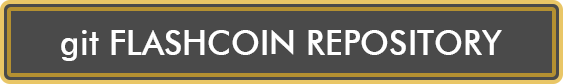
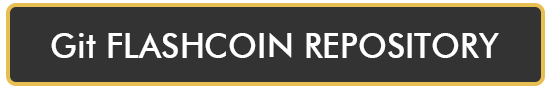
Buttons replacement and Background color-code changed

diff --git a/index.html b/index.html
@@ -82,13 +82,13 @@
 			}
 			function hover(element) {
 				var img = $(element).attr('data-imgname');
-				img = img+'Hover.png?123';
+				img = img+'Hover.png?ver=1.1';
 			  element.setAttribute('src', 'images/_newsite/web_img/'+img);
 			}
 
 			function unhover(element) {
 				var img = $(element).attr('data-imgname');
-				img = img+'.png?123';
+				img = img+'.png?ver=1.1';
 			  element.setAttribute('src', 'images/_newsite/web_img/'+img);
 			}
 
@@ -117,7 +117,7 @@
 						<div class="row clearfix webmainpart">
 							<div class="col-lg-12 text-center">
 								<div class="text-center main-section-image">
-									<img class="" src="images/_newsite/web_img/WebsiteActualLogo.png" />
+									<img class="" src="images/_newsite/web_img/WebsiteActualLogo.png?ver=1.1" />
 								</div>
 							</div>
 						</div>
@@ -129,16 +129,16 @@
 										</h3>
 								</div>
 								<div class="whitepaper bottommargin-sm bottommargin-child">
-									<a href="https://t.me/joinchat/C5go9ExsGGNeVvForEgb6w" target="_blank"><img src="images/_newsite/web_img/TelegramButton.png?123" onmouseover="hover(this);" onmouseout="unhover(this);" data-imgname="TelegramButton" ></a>
-									<a href="https://discord.gg/2nFmMqA" target="_blank"><img src="images/_newsite/web_img/DiscordButton.png?123" onmouseover="hover(this);" onmouseout="unhover(this);" data-imgname="DiscordButton" ></a>
+									<a href="https://t.me/joinchat/C5go9ExsGGNeVvForEgb6w" target="_blank"><img src="images/_newsite/web_img/TelegramButton.png?ver=1.1" onmouseover="hover(this);" onmouseout="unhover(this);" data-imgname="TelegramButton" ></a>
+									<a href="https://discord.gg/2nFmMqA" target="_blank"><img src="images/_newsite/web_img/DiscordButton.png?ver=1.1" onmouseover="hover(this);" onmouseout="unhover(this);" data-imgname="DiscordButton" ></a>
 								</div>
 
 							</div>
 						</div>
 						<div class="row clearfix">
 							<div class="col-lg-12 text-center bottom-section" style="">
-								<a href="docs/FLASHWhitepaper.pdf?new" target="_blank" class="display-centrally WhitePaperButton"><img src="images/_newsite/web_img/WhitePaperButton.png?123" onmouseover="hover(this);" onmouseout="unhover(this);" data-imgname="WhitePaperButton" style="width:150px"></a>
-								<a class="LearnMoreButton" href="#" data-scrollto="#about"><img src="images/_newsite/web_img/LearnMoreButton.png?123" onmouseover="hover(this);" onmouseout="unhover(this);" data-imgname="LearnMoreButton" ></a>
+								<a href="docs/FLASHWhitepaper.pdf?new" target="_blank" class="display-centrally WhitePaperButton"><img src="images/_newsite/web_img/WhitePaperButton.png?ver=1.1" onmouseover="hover(this);" onmouseout="unhover(this);" data-imgname="WhitePaperButton" style="width:150px"></a>
+								<a class="LearnMoreButton" href="#" data-scrollto="#about"><img src="images/_newsite/web_img/LearnMoreButton.png?ver=1.1" onmouseover="hover(this);" onmouseout="unhover(this);" data-imgname="LearnMoreButton" ></a>
 							</div>
 						</div>
 					</div>
@@ -304,7 +304,7 @@
 								</div>
 								<div class="col-md-12">
 									<div class="promo promo-center">
-										<a href="our-team.html"><img src="images/_newsite/web_img/MoreButton.png" onmouseover="hover(this);" onmouseout="unhover(this);" data-imgname="MoreButton" style="width:13%;"></a>
+										<a href="our-team.html"><img src="images/_newsite/web_img/MoreButton.png?ver=1.1" onmouseover="hover(this);" onmouseout="unhover(this);" data-imgname="MoreButton" style="width:13%;"></a>
 									</div>
 								</div>
 							</div>
@@ -322,7 +322,7 @@
 						<div class="container clearfix">
 							<div class="row">
 								<div class="col-md-4">
-									<img src="images/circle.png" alt="">
+									<img src="images/circle.png?ver=1.1" alt="">
 								</div>
 								<div class="col-md-8">
 									<h2>Features</h2>
@@ -652,7 +652,7 @@
 								</ul>
 								<div class="col-md-12">
 									<div class="promo promo-center">
-										<a href="our-partners.html"><img src="images/_newsite/web_img/MoreButton.png" onmouseover="hover(this);" onmouseout="unhover(this);" data-imgname="MoreButton" style="width:11%;"></a>
+										<a href="our-partners.html"><img src="images/_newsite/web_img/MoreButton.png?ver=1.1" onmouseover="hover(this);" onmouseout="unhover(this);" data-imgname="MoreButton" style="width:11%;"></a>
 									</div>
 								</div>
 							</div>
@@ -696,11 +696,11 @@
 									<span>With the web wallet, you can use an email address or your public address for sending and receiving coins.<br /><br />
 										The web wallet supports most browsers and mobile devices. There's nothing to download or install for maximum convenience.<br/>
 									</span>
-									<a href="https://wallet.flashcoin.io/" target="_blank"><img src="images/_newsite/web_img/WebWalletButton.png" onmouseover="hover(this);" onmouseout="unhover(this);" data-imgname="WebWalletButton" style="width:70%; margin-top:20px;"></a>
+									<a href="https://wallet.flashcoin.io/" target="_blank"><img src="images/_newsite/web_img/WebWalletButton.png?ver=1.1" onmouseover="hover(this);" onmouseout="unhover(this);" data-imgname="WebWalletButton" style="width:70%; margin-top:20px;"></a>
 									<div class="fancy-title title-border">
 										<h2>Flash <span>Android</span> Wallet</h2>
 									</div>
-									<a href="https://play.google.com/store/apps/details?id=com.flash.wallet.android" target="_blank" class="button topmargin-sm play-store-btn"><img src="images/icons/playstor1.png"></a>
+									<a href="https://play.google.com/store/apps/details?id=com.flash.wallet.android" target="_blank" class="button topmargin-sm play-store-btn"><img src="images/icons/playstor1.png?ver=1.1"></a>
 								</div>
 								<div class="col-lg-8">
 									<div class="max-height col-lg-12">
@@ -711,7 +711,7 @@
 											<div class="col-md-3 col-sm-3">
 												<div class="feature-box fbox-center fbox-dark fbox-plain fbox-small nobottomborder">
 													<div class="fbox-icon">
-														<img src="images/icons/icon_microsoft.png" />
+														<img src="images/icons/icon_microsoft.png?ver=1.1" />
 													</div>
 													<h3>Windows</h3>
 													<a href="downloads/flashcoin-0.10.3.0-win64-setup.exe">64 Bit</a><br />
@@ -754,13 +754,13 @@
 										<div class="fancy-title title-border">
 											<h2>Flash <span>iOS</span> Wallet</h2>
 										</div>
-										<a href="https://itunes.apple.com/in/app/coinodes-flash-wallet/id1397010514" target="_blank" class="button topmargin-sm app-store-btn"><img style="height:45px" src="images/icons/app-store.png"></a>
+										<a href="https://itunes.apple.com/in/app/coinodes-flash-wallet/id1397010514" target="_blank" class="button topmargin-sm app-store-btn"><img style="height:45px" src="images/icons/app-store.png?ver=1.1"></a>
 									</div>
 									<div class="col-lg-6" style="display: inline-block;">
 										<div class="fancy-title title-border">
 											<h2>Flash <span>Paper</span> Wallet</h2>
 										</div>
-										<a href="https://paperwallet.flashcoin.io/" target="_blank" class="button topmargin-sm app-store-btn"><img src="images/_newsite/web_img/PaperWalletButton.png" onmouseover="hover(this);" onmouseout="unhover(this);" data-imgname="PaperWalletButton" style="width:80%;"></a>
+										<a href="https://paperwallet.flashcoin.io/" target="_blank" class="button topmargin-sm app-store-btn"><img src="images/_newsite/web_img/PaperWalletButton.png?ver=1.1" onmouseover="hover(this);" onmouseout="unhover(this);" data-imgname="PaperWalletButton" style="width:80%;"></a>
 									</div>
 								</div>
 							</div>
@@ -788,14 +788,14 @@
 								<h2>Download Whitepaper</h2>
 							</div>
 							<div class="center">
-								<a href="docs/FLASHWhitepaper.pdf" target="_blank"><img src="images/_newsite/web_img/EnglishButton.png" onmouseover="hover(this);" onmouseout="unhover(this);" data-imgname="EnglishButton" style="width:15%; margin-right:10px;"></a>
-								<a href="docs/FLASHWhitepaper-Espanol.pdf" target="_blank"><img src="images/_newsite/web_img/EspanolButton.png" onmouseover="hover(this);" onmouseout="unhover(this);" data-imgname="EspanolButton" style="width:15%; margin-left:10px;"></a>
+								<a href="docs/FLASHWhitepaper.pdf" target="_blank"><img src="images/_newsite/web_img/EnglishButton.png?ver=1.1" onmouseover="hover(this);" onmouseout="unhover(this);" data-imgname="EnglishButton" style="width:15%; margin-right:10px;"></a>
+								<a href="docs/FLASHWhitepaper-Espanol.pdf" target="_blank"><img src="images/_newsite/web_img/EspanolButton.png?ver=1.1" onmouseover="hover(this);" onmouseout="unhover(this);" data-imgname="EspanolButton" style="width:15%; margin-left:10px;"></a>
 							</div>
 							<div class="heading-block title-center nobottomborder topmargin-lg">
 								<h2>Github</h2>
 							</div>
 							<div class="center">
-								<a href="https://github.com/flash-coin" target="_blank"><img src="images/_newsite/web_img/gitFLASHCOINButton.png" onmouseover="hover(this);" onmouseout="unhover(this);" data-imgname="gitFLASHCOINButton" style="width:35%;"></a>
+								<a href="https://github.com/flash-coin" target="_blank"><img src="images/_newsite/web_img/gitFLASHCOINButton.png?ver=1.1" onmouseover="hover(this);" onmouseout="unhover(this);" data-imgname="gitFLASHCOINButton" style="width:35%;"></a>
 							</div>
 						</div>
 					</div>

diff --git a/css/04.custom.css b/css/04.custom.css
@@ -106,12 +106,12 @@
 }
 
 #wallet {
-  background: url('../images/_newsite/bg_section-wallet.jpg') scroll no-repeat bottom/cover;
-  min-height: 900px;
+  background: url('../images/_newsite/WalletBackground.png') scroll no-repeat bottom/cover;
+  min-height: 700px;
 }
 
 #whitepaper {
-  background: url('../images/_newsite/bg_hero.jpg') no-repeat center right;
+  background: url('../images/_newsite/ResourceBackground.png') no-repeat center top;
   background-size: cover;
 }
 
@@ -132,7 +132,10 @@
 #wallet .col-lg-3 {
   border-left: 1px solid white;
 }
-body { font-size: 1rem; }
+body {
+  font-size: 1rem;
+  background-color: #0A0A0A !important;
+}
 
 .svg-inline--fa {
   width: .775em !important;
@@ -284,7 +287,7 @@ a.button.button-rounded.button-reveal.button-large.button-yellow.button-light.tr
 }
 
 .fancy-title.title-border.title-center h1 span, .fancy-title.title-border.title-center h2 span, .dark .fancy-title h1, .dark .fancy-title h2, .dark .fancy-title h3, .dark .fancy-title h4, .dark .fancy-title h5, .dark .fancy-title h6 {
-  background: #000 !important;
+  background: #0A0A0A !important;
 }
 
 .fancy-title {

diff --git a/css/dark.css b/css/dark.css
@@ -21,7 +21,7 @@ body.dark,
 .dark .modal-content,
 .dark .css3-spinner,
 body.dark #side-panel,
-body #side-panel.dark { background-color: #000; }
+body #side-panel.dark { background-color: #0A0A0A; }
 
 .dark .css3-spinner > div,
 .dark .css3-spinner-grid-pulse > div,
@@ -93,7 +93,7 @@ body #side-panel.dark { background-color: #000; }
 #header.dark.transparent-header.floating-header .container,
 #header.dark.transparent-header.floating-header.sticky-header .container,
 .dark .responsive-sticky-header #header-wrap,
-.responsive-sticky-header.dark #header-wrap { background-color: #000; }
+.responsive-sticky-header.dark #header-wrap { background-color: #0A0A0A; }
 
 .dark #header.full-header #header-wrap:not(.not-dark),
 #header.full-header.dark #header-wrap:not(.not-dark) { border-bottom-color: rgba(255,255,255,0.15); }
@@ -1684,4 +1684,3 @@ body #side-panel.dark #side-panel-trigger-close a {
 	.dark .pricing-box.pricing-extended .pricing-action-area { border-top-color: rgba(255,255,255,0.15); }
 
 }
-

diff --git a/css/responsive.css b/css/responsive.css
@@ -215,7 +215,7 @@
 
 	#header.dark.transparent-header,
 	#header.dark.semi-transparent {
-		background-color: #000;
+		background-color: #0A0A0A;
 		border-bottom: 1px solid rgba(0,0,0,0.1);
 	}
 
